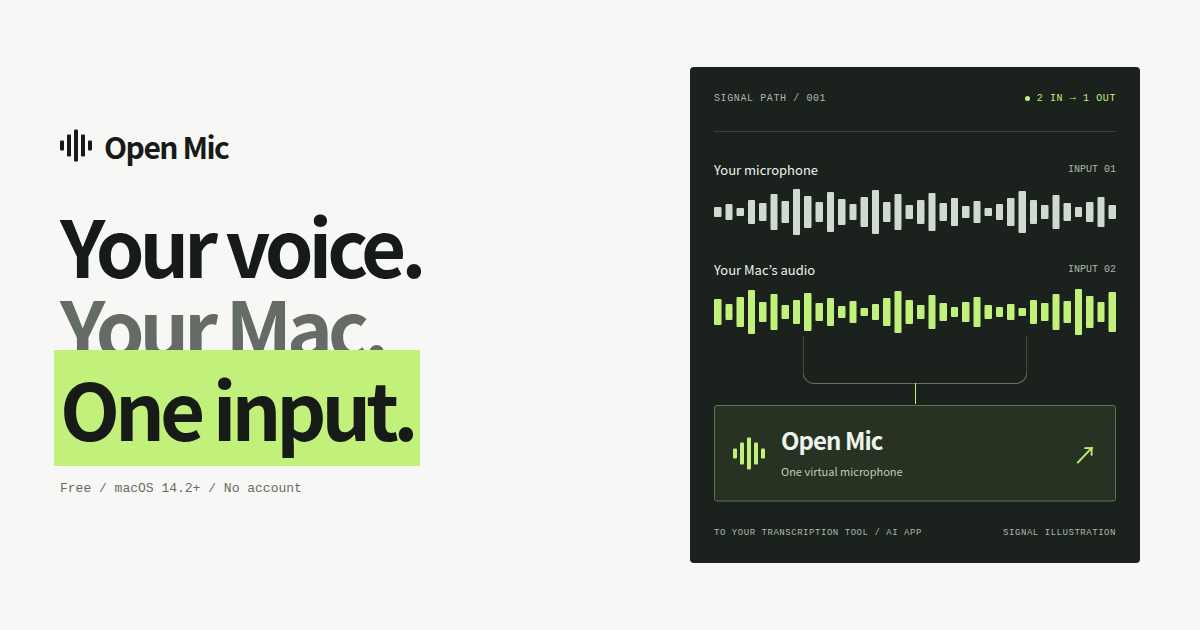
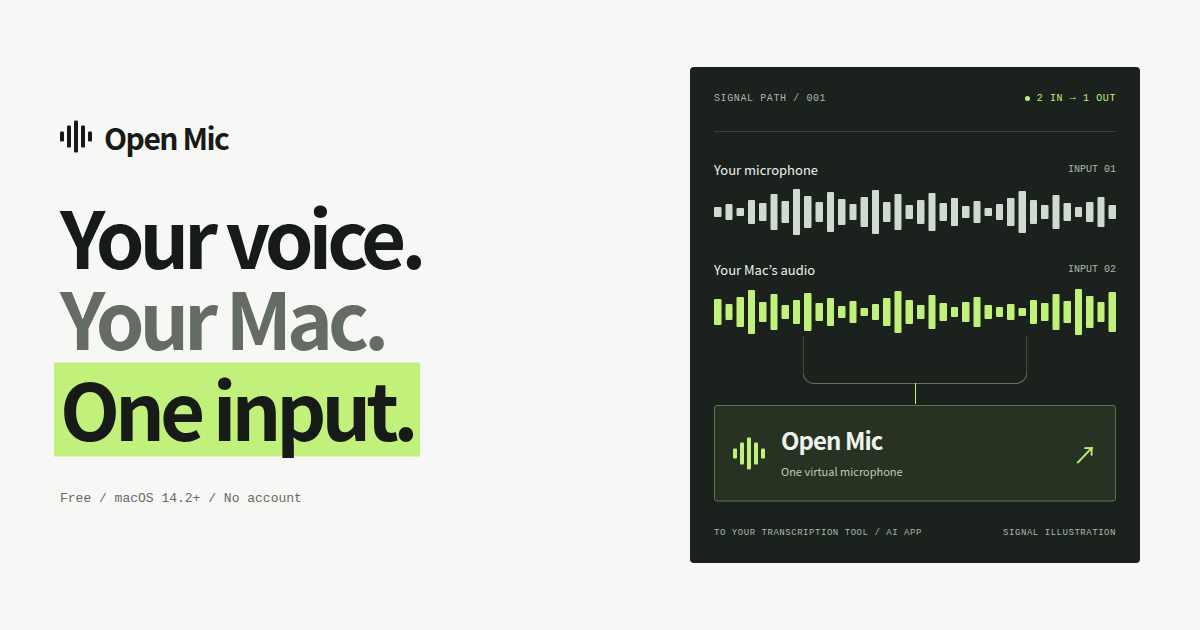
Keep hero highlight clear of preceding text

Changed region(s): [[0.0308, 0.3317, 0.37, 0.6032], [0.0308, 0.7238, 0.37, 0.8143], [0.0308, 0.181, 0.2158, 0.2714]]

diff --git a/assets/site.css b/assets/site.css
@@ -43,7 +43,7 @@ a:focus-visible, summary:focus-visible { outline: 3px solid var(--green); outlin
 .eyebrow .live { display: inline-block; width: 7px; height: 7px; background: var(--green); border-radius: 50%; margin-right: 10px; }
 h1 { font-size: clamp(58px, 6.4vw, 84px); font-weight: 650; line-height: 1.04; letter-spacing: -.065em; margin: 0 0 28px; }
 h1 .soft { color: var(--muted); }
-h1 .highlight { display: inline; background: var(--accent); color: #171b18; padding: 0 .08em .04em; margin-left: -.08em; box-decoration-break: clone; -webkit-box-decoration-break: clone; }
+h1 .highlight { display: inline-block; background: var(--accent); color: #171b18; padding: .02em .08em .08em; margin: .08em 0 0 -.08em; line-height: 1.1; }
 :lang(ja) h1 { font-size: clamp(45px, 5.3vw, 68px); line-height: 1.28; letter-spacing: -.065em; font-weight: 700; }
 .lede { color: var(--muted); font-size: 16px; max-width: 31em; margin: 0 0 28px; line-height: 1.85; }
 .actions { display: flex; align-items: center; gap: 24px; flex-wrap: wrap; }
